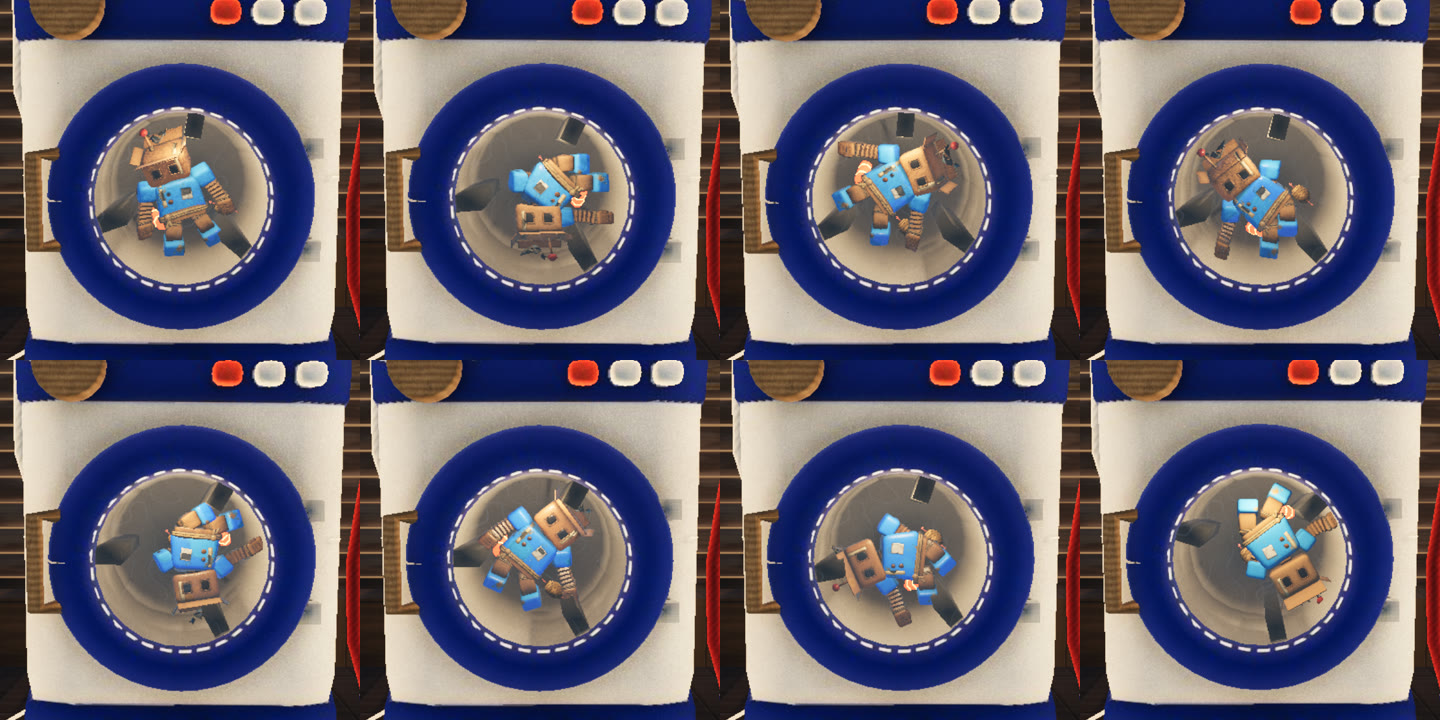
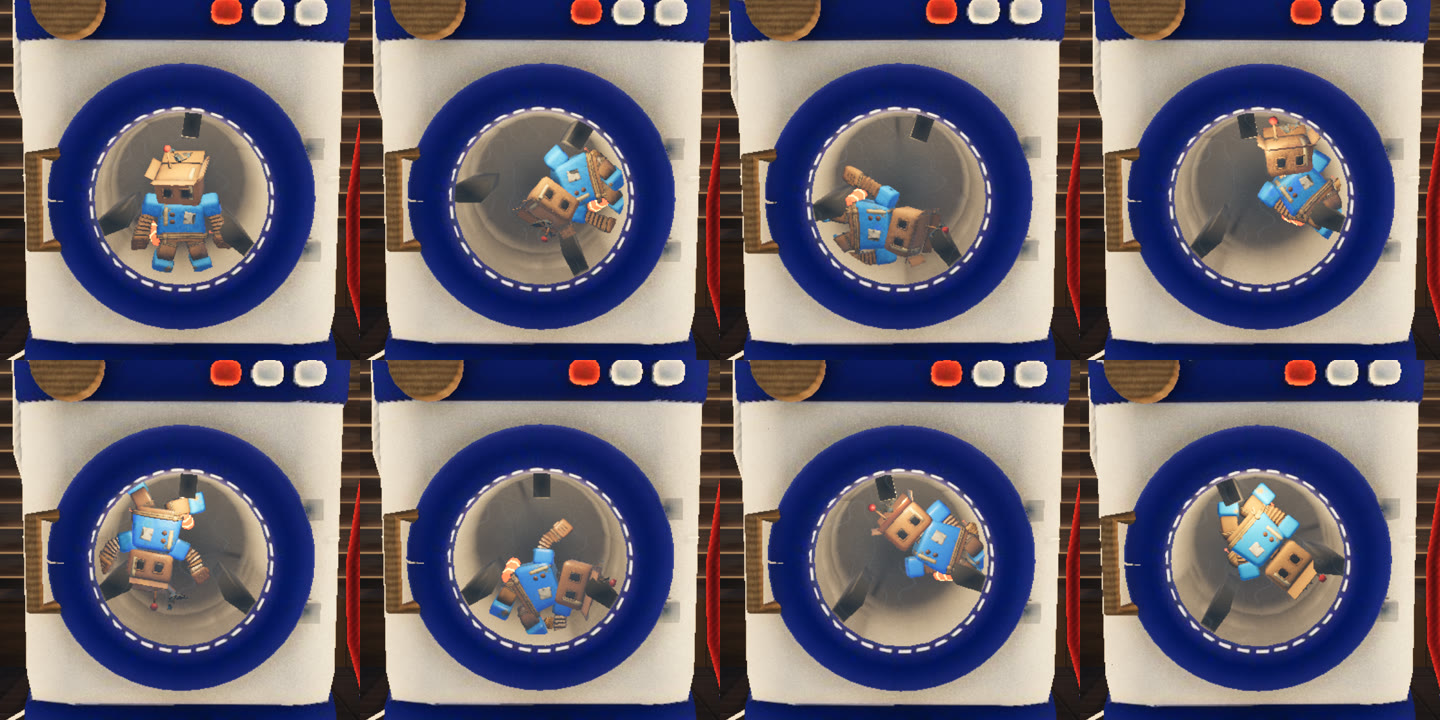
乾燥機の中の人形が胴の壁にめりこまないようにする（笠のつば・大きな人形）
代表「直して」（笠の人形のつばが胴の壁にめりこむコマがある）

- dryer_flop.gd: 体を点でなく、足もとから頭までの太さのある棒にして、両端を胴の壁に当てる。
  当たると跳ね返り、当たった所の勢いで体が回る。羽根に持ち上げられるあいだは体ごと胴といっしょに回る
- 胴（半径 0.65 m）に収まらない人形は、とび込むあいだに収まるまで縮み、出るとき戻る（fit）。
  笠 0.59・ゴーレム 0.49・折り紙 0.77・新聞 0.89 倍。ロボット・武者・人形はそのまま
- doll.gd: drum_extent（胴の中の姿勢での足・頭のてっぺん・頭の高さの広さ）と drum_fit（人形の大きさの倍）
- 7 体を撮った絵: design/snowman-food/14_dryer_ride_kinds.jpg

diff --git a/design/damp.md b/design/damp.md
@@ -68,7 +68,7 @@
 ![F の案内 → とび込む → 回る → とび出す → 一人称（胴の中から窓ごしに食堂）→ 出たあと](damp/14-dryer-steps.jpg)
 
 - 手にペレット（調理の途中の物）を持たずに、乾燥機の前（食堂の側）で乾燥機を向いて F。案内は F と、丸い戸に丸まった人形と回る矢印の絵。ペレットを持っていれば、いつもどおり調理
-- 丸い戸へ弧を描いてとび込み（6 コマ）、胴の中でぐにゃんぐにゃんに回される（`dryer_flop.gd`。2026-11-01 代表「キャラの顔が窓から見えるようにして、体はぐにゃんぐにゃんの物理演算にしてほしい」）。羽根に引っかかって胴（16 コマで 1 回り）といっしょに持ち上げられ、てっぺんの手前で離れて、くるっと回りながら落ちる。落ちると「ぽすっ」。手足と頭は見かけの重力に引かれてぶらぶら振れ、顔はいつも丸い戸の窓へ向く。計算は入ってからのコマだけで進めるので、どの画面でも同じ動き。姿は人形と同じ 12 コマ／秒で刻む。乾燥機は調理のときと同じにがたがた揺れ、漏斗から湯気、回る音とオルゴール
+- 丸い戸へ弧を描いてとび込み（6 コマ）、胴の中でぐにゃんぐにゃんに回される（`dryer_flop.gd`。2026-11-01 代表「キャラの顔が窓から見えるようにして、体はぐにゃんぐにゃんの物理演算にしてほしい」）。羽根に引っかかって胴（16 コマで 1 回り）といっしょに持ち上げられ、てっぺんの手前で離れて、くるっと回りながら落ちる。落ちると「ぽすっ」。手足と頭は見かけの重力に引かれてぶらぶら振れ、顔はいつも丸い戸の窓へ向く。体は足もとから頭までの太さのある棒として、両端を胴の壁に当てる（笠のつばが壁にめりこまない）。胴（半径 0.65 m）に収まらない大きな人形は、とび込むあいだに収まるまで縮み、出るとき戻る（笠 0.59・ゴーレム 0.49・折り紙 0.77・新聞 0.89 倍。ロボット・武者・人形はそのまま）。計算は入ってからのコマだけで進めるので、どの画面でも同じ動き。姿は人形と同じ 12 コマ／秒で刻む。乾燥機は調理のときと同じにがたがた揺れ、漏斗から湯気、回る音とオルゴール
 - 回っているあいだ、水が 1 秒に 35 抜ける。100 から −40 まで 4 秒（2026-11-01 代表「キャラの乾燥時間を倍にしてほしい」。前は 70 で 2 秒）
 - 乾ききって（−40）1.5 秒以上回ったら、ひとりでに戸からとび出し（5 コマ）、乾燥機の前に立つ。中でもう一度 F でも出る（案内は F と、戸から出る矢印の絵）。12 秒より長くは回らない
 - 一人称は、胴の真ん中から丸い戸の窓ごしに外（食堂）を見る。人形といっしょには回らず、少し揺れる。三人称は、戸の前から窓の中の人形を見る

diff --git a/design/snowman-food/README.md b/design/snowman-food/README.md
@@ -16,6 +16,7 @@
 | [10_motion_dryer_ramen.jpg](10_motion_dryer_ramen.jpg)・[gif](10_motion_dryer_ramen.gif) | 調理の動き: 乾燥機の胴が回り、ラーメンの汁・麺・具が透明なビニールの窓ごしに回りながら踊る |
 | [11_motion_dryer_fry.jpg](11_motion_dryer_fry.jpg) | 調理の動き: たい焼きを揚げる（たい焼きと油の粒） |
 | [12_motion_dryer_ride.jpg](12_motion_dryer_ride.jpg)・[gif](../damp/13-dryer-ride.gif) | 人形が乾燥機に入って、ぐにゃんぐにゃんに回される（顔は窓へ。dryer_flop.gd） |
+| [14_dryer_ride_kinds.jpg](14_dryer_ride_kinds.jpg) | 7 体の人形が乾燥機で回される（上からゴーレム・笠・武者・新聞・人形・折り紙・ロボット）。胴に収まらない人形は縮む |
 | [13_motion_drink.jpg](13_motion_drink.jpg) | 調理の動き: 衣類スチーマー（前からの動きのまま） |
 | [shots/](shots/) | ゲームの中と Blender の確かめの絵 |
 
